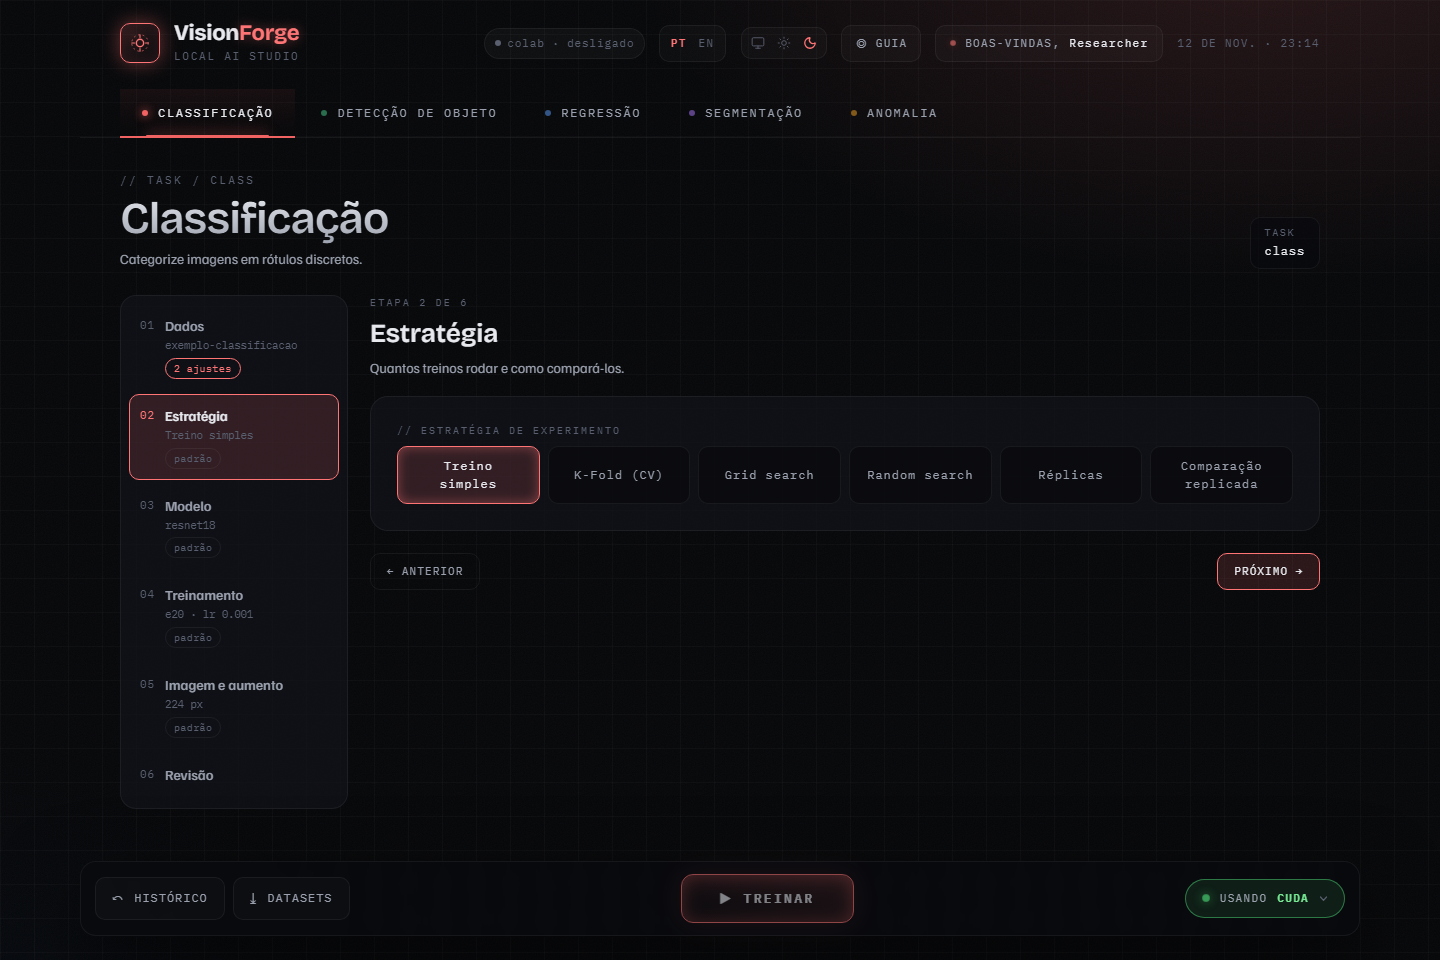
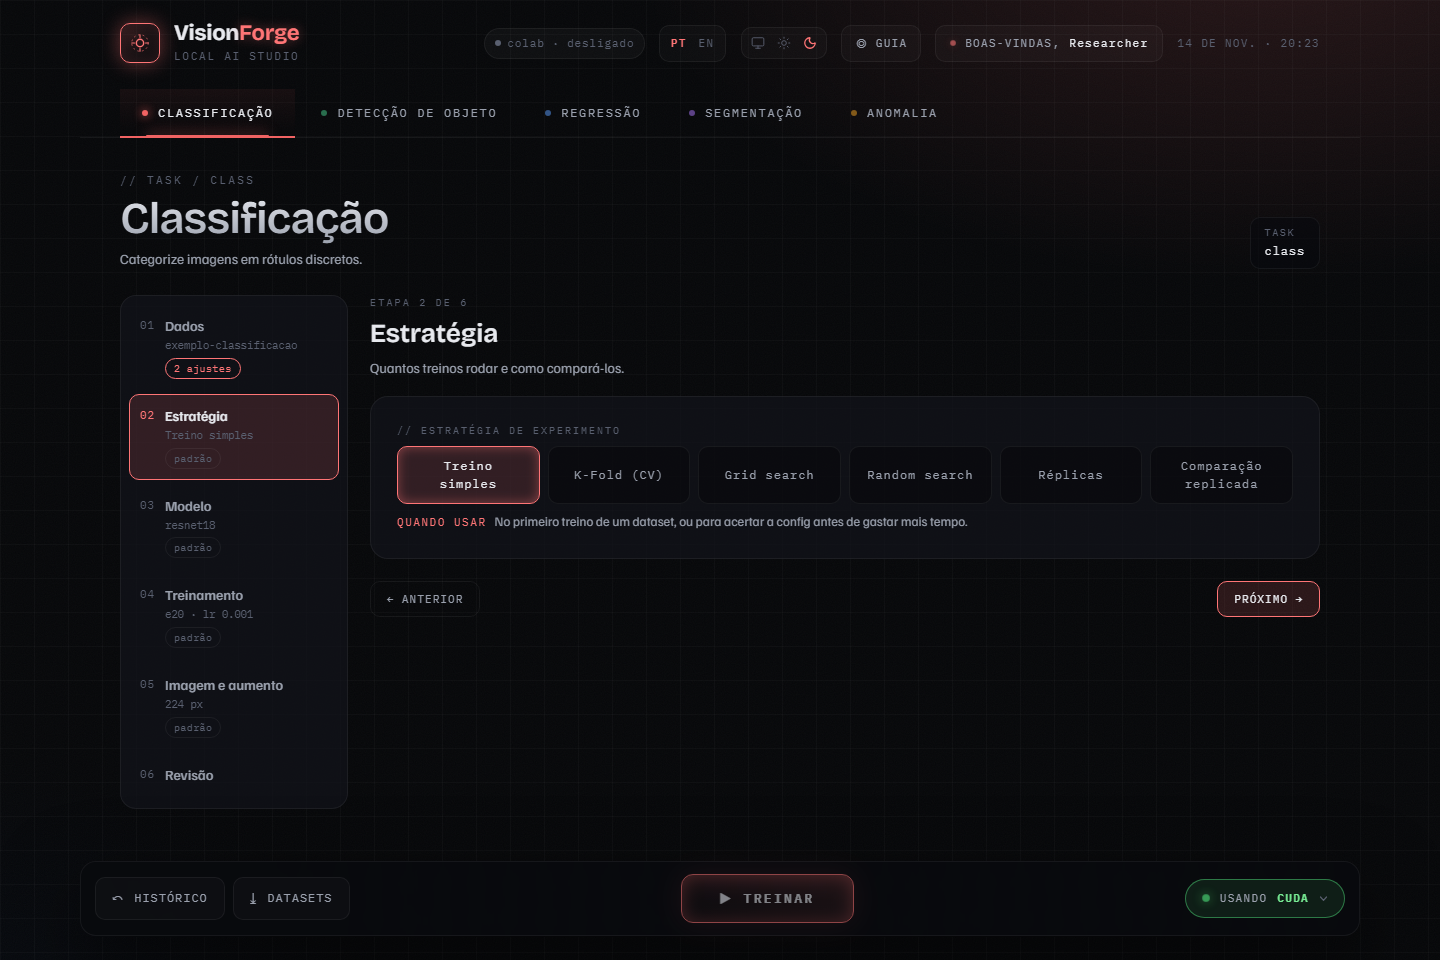
docs(gui): prints dos guias com a ajuda nova
Capturas regeneradas por scripts/capture_docs_images.py: a linha "Quando usar" na etapa Estratégia e o bloco "E agora?" no detalhe da execução.

diff --git a/docs/images/README.md b/docs/images/README.md
@@ -6,9 +6,9 @@ a 1440×960, tema escuro, pt-BR. A versão do cabeçalho fica oculta na
 captura. Não edite à mão: rode o script de novo e confira com
 `python scripts/capture_docs_images.py --check`.
 
-- Commit: `af1e007d1d7e1b2d00a60afac7d55865e9ee887d`
+- Commit: `19242b10c155292d2755c41039e46c7025c3d17a`
 - Versão: `0.21.0`
-- Data: 2026-11-13
+- Data: 2026-11-14
 
 | Imagem | Mostra | Dimensões (px) |
 | --- | --- | --- |
